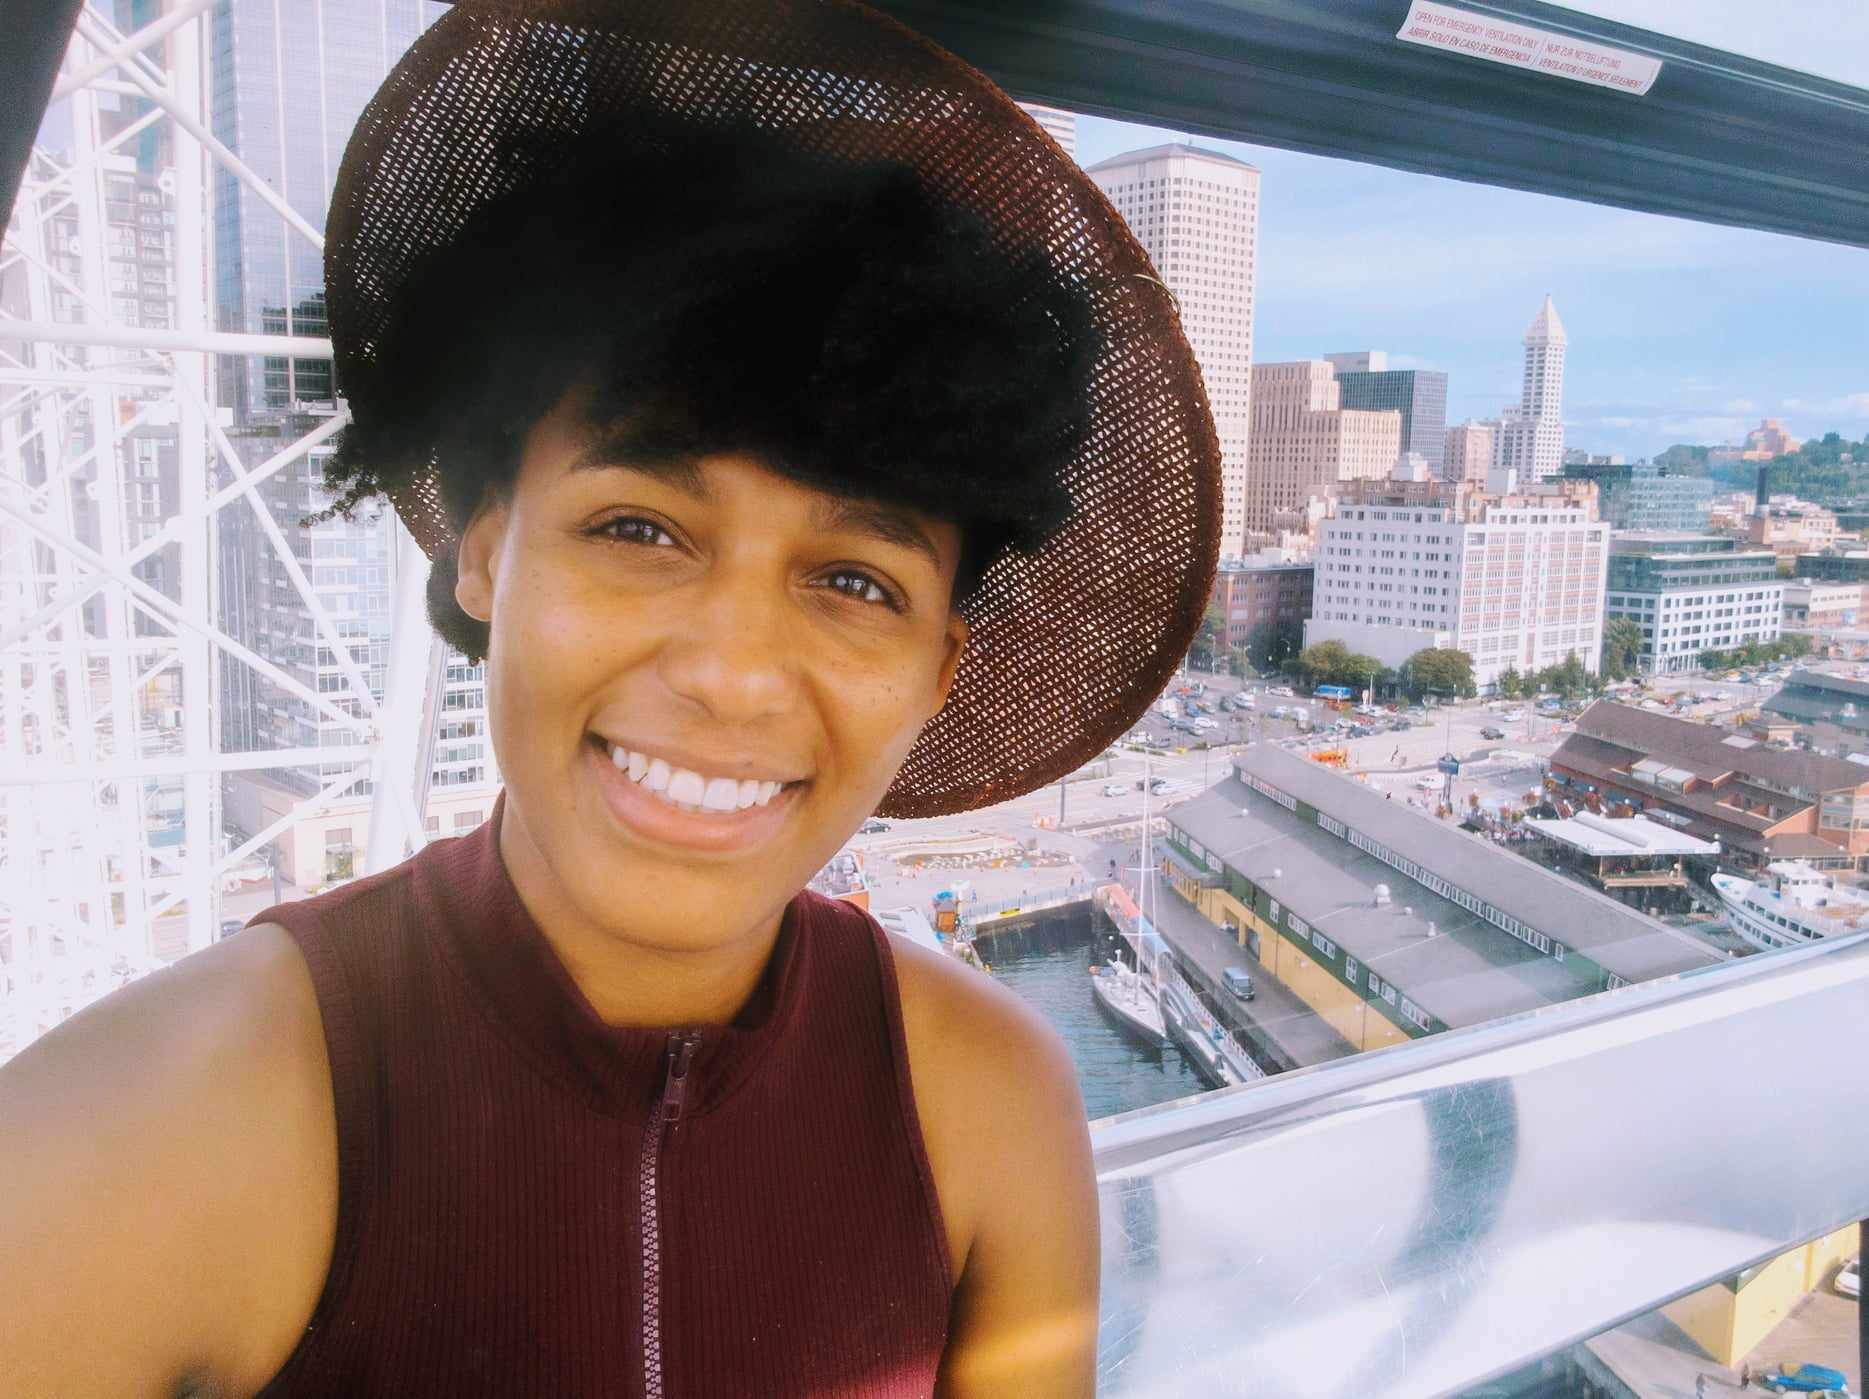
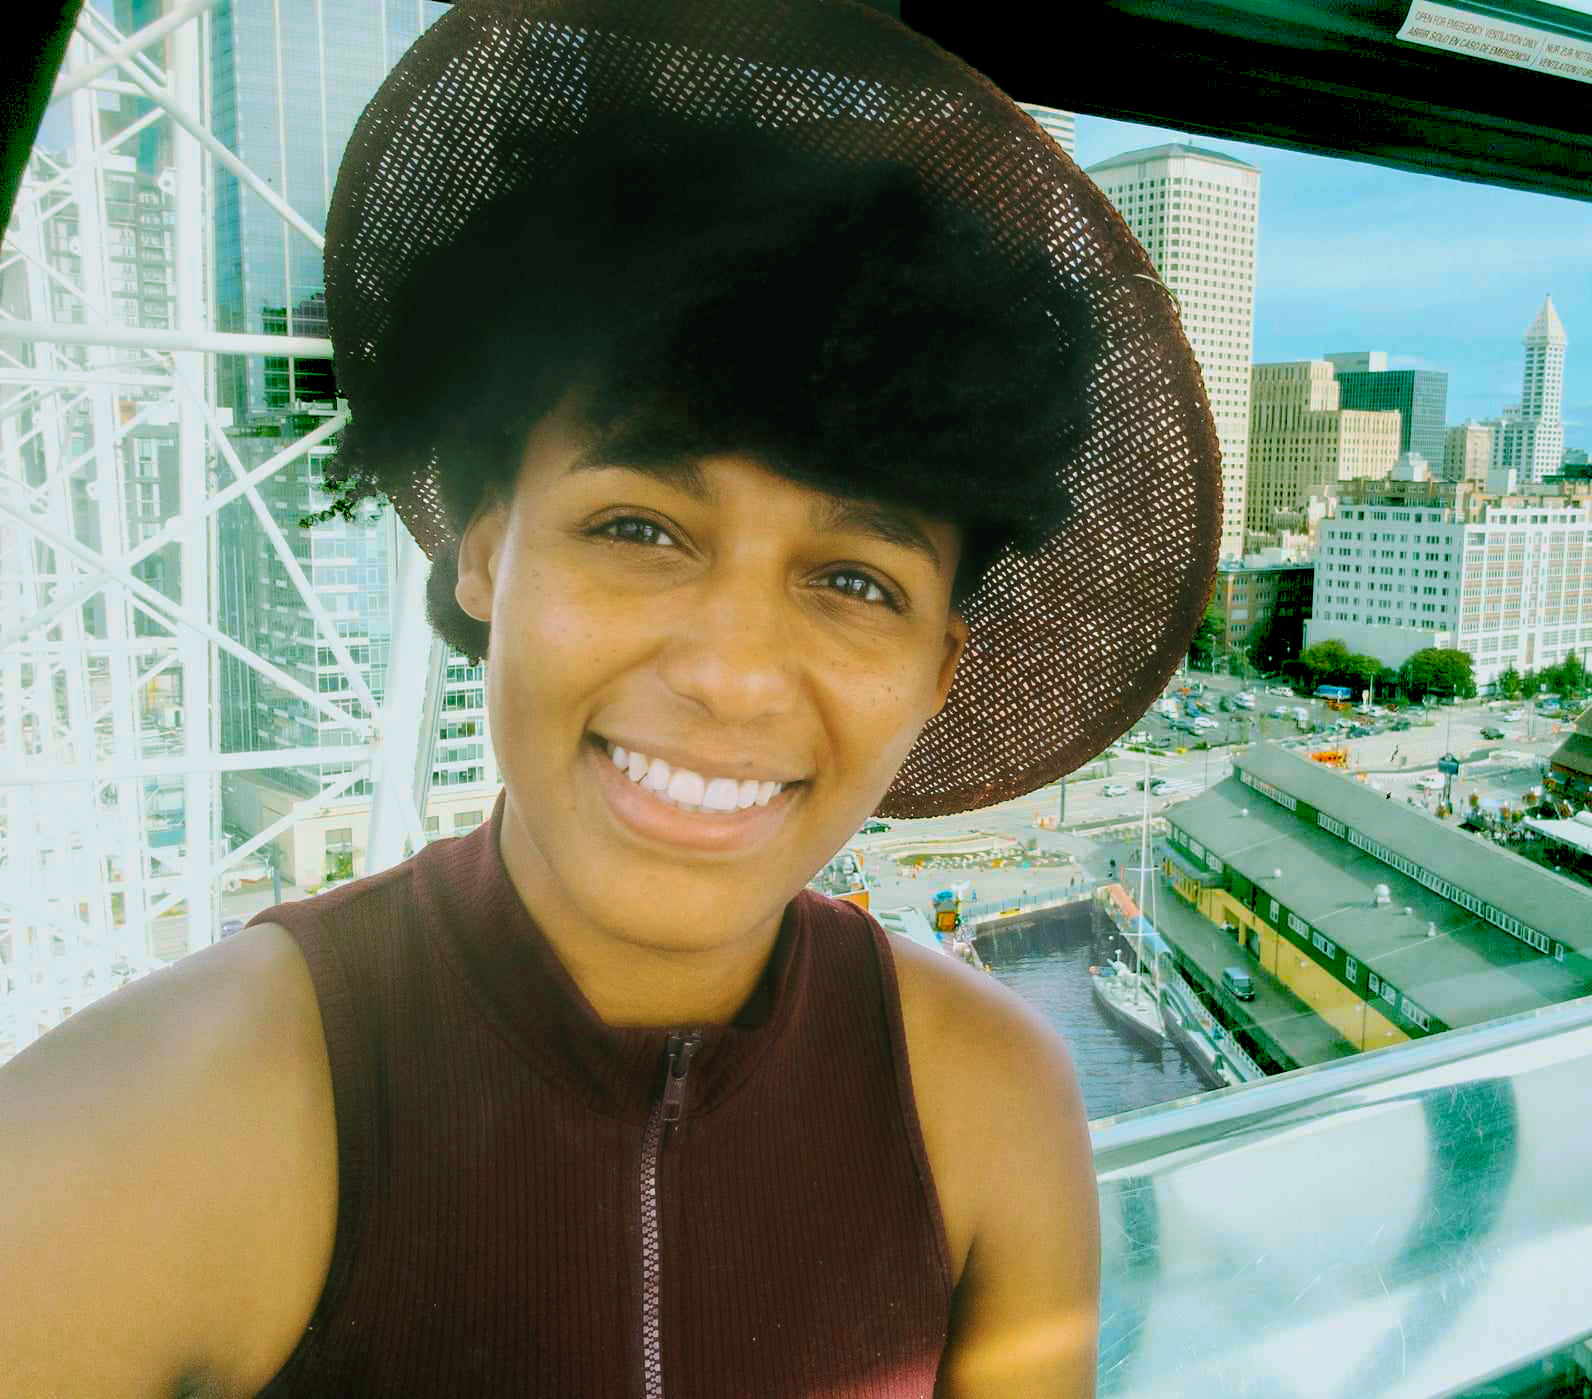
Styles profile image, resizes, and adds border.

diff --git a/src/components/ProfileImage.js b/src/components/ProfileImage.js
@@ -1,7 +1,9 @@
+import { useState } from "react";
+
 export default function ProfileImage () {
+    const [activeAttribute, setActiveAttribute] = useState("community");
+    const attributes = ["community", "software", "tiny-house"];
     return(
-        <div className="overlay-container" id="profile-image-div">
-            <h5>profile image</h5>
-        </div>
+        <div className="overlay-container" id="profile-image-div"></div>
     )
 }

diff --git a/src/App.css b/src/App.css
@@ -15,9 +15,11 @@
 }
 
 #profile-image-div {
-  height:25vh;
-  width:50vh;
+  height:20vh;
+  width:20vh;
   background-image: url('../public/profile.jpg');
+  border-radius: 50%;
+  border: inset 2px rgba(213, 176, 42, 1);
 }
 
 #link-tree-div {
